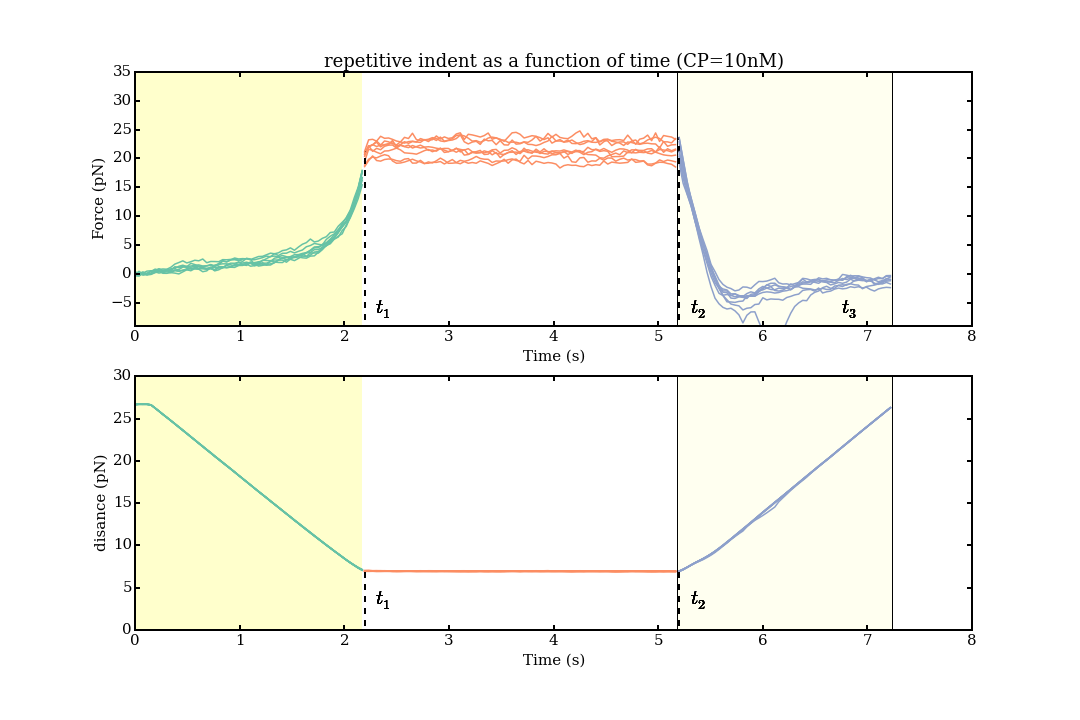
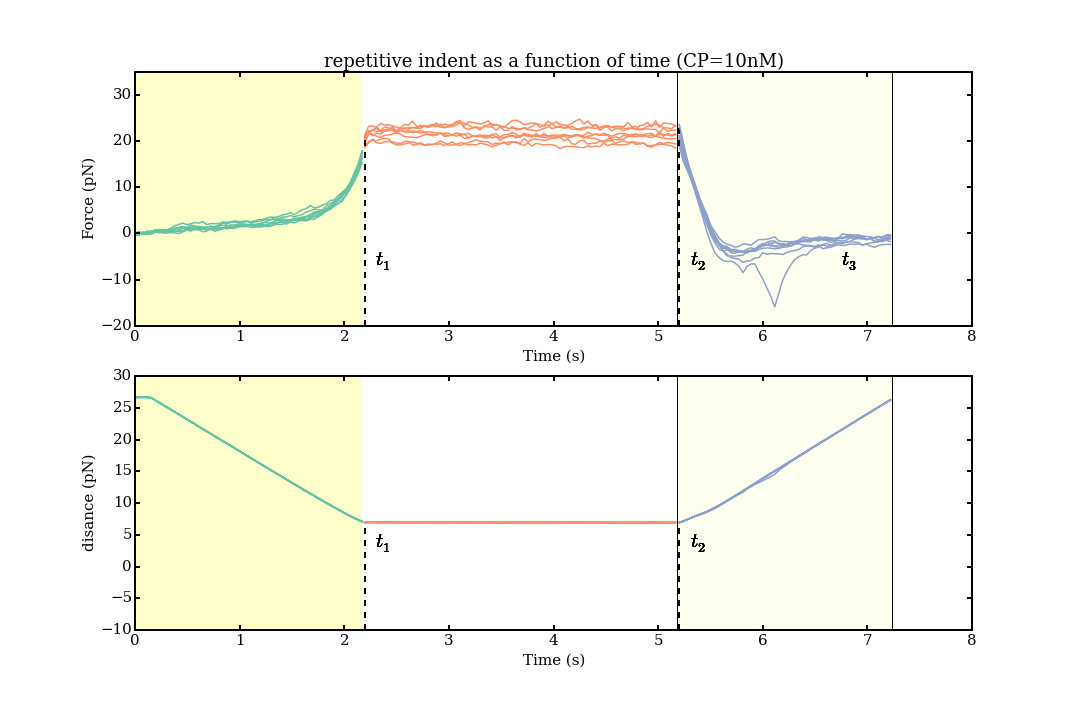
more stuff

diff --git a/parts/part3.rst b/parts/part3.rst
@@ -1,4 +1,5 @@
-.. Actin Cloud
+.. Actin Cloud:
+
 Actin Cloud
 ###########
 .. 1
@@ -159,14 +160,14 @@ force recording is made on the static bead, that is to say in our case on the
 actin bead.
 
 
-The indentation is a three step process :ref:`fig_indent`.
+The indentation is a three step process :num:`Fig #figindent-time`.
 
 Approach Phase
 ==============
 .. 3
-
+ 
 The approach of the probe-trap at constant speed (10 µm/s), as seen in
-:num:`Fig #figindent` for :math:`t < t_1`. During the approach the actin bead
+:num:`Fig #figindent-time` for :math:`t < t_1`. During the approach the actin bead
 will repel the probe bead due the actin network growing on it. The force felt
 by the actin bead will progressively increase as the probe bead approach
 eventually reaching the maximum as the probe-trap reach its closest position
@@ -192,13 +193,21 @@ While the actin network relaxes, the forces between the two beads will slowly
 decrease thus leading to the bead getting closer to their trap center and
 closer to each other. The decrease in distance during the relaxation phase is
 small compared to the distance between beads. The decrease of force as well as
-the minimal change in distance between the two bead can be seen on :num:`Fig
-#figindent` in the middle part.
+the minimal change in distance between the two bead can be seen on :num:`Fig #figindent-time`
+in the middle part.
 
-.. _figindent:
+.. _figindent-time:
 
 .. figure:: /figs/force_time.png
-    :width: 100%
+    :width: 80%
+    
+    Upper graph : Force as a function of time on the actin-bead.  Lower graph :
+    distance between beads (distance between traps + displacement of bead from
+    the trap center) as a function of time. First part of each graph (green
+    curve, yellow back) represent the approach phase. Middle part (orange on
+    white) is the relaxation phase, and right part (blue on pale yellow) is the
+    retraction.  Shown data is a subsample of around 1 every 1000 points of
+    acquired data.
 
 
 Retraction part
@@ -224,8 +233,7 @@ is small compared to the distance between bead center and thickness of the
 actin gel, thus the distance between beads center could be approximated as the
 distance between traps without change of the overall further results.  The
 force-distance curve curve representing the force exerted by the probe bead on
-the actin bead as a function of the distance can be computed :num:`Fig
-#force-distance`. 
+the actin bead as a function of the distance can be computed :num:`Fig #force-distance`. 
 
 
 .. _force-distance:
@@ -233,16 +241,67 @@ the actin bead as a function of the distance can be computed :num:`Fig
 .. figure:: /figs/force-distance.png
     :width: 100%
 
+    Force exerted on the actin bead as a function of the distance between the
+    two beads center. Color and data are the same as in :num:`Fig
+    #figindent-time`. The probe bead start from the far right, and get closer
+    while the force get higher (green upper part of the curve), reach a
+    maximum, and enter the relaxation phase (orange part) where the force
+    between the probe and actin bead decrease, while the distance slightly
+    decrease. During the retraction part (Blue) the force decrease, reaches
+    negative value while the bead return to its initial position. Shown data is
+    a subsample of around 1 every 1000 points of acquired data.
+
+
+Repetitive indent
+=================
+.. 3
+
+To check for reproducibility and non-plastic deformation of the network after
+indentation, the indentation cycle can be reputed several time at a few seconds
+intervals. As the network is constantly growing during the measurement, this
+also allow to check for the change of network properties due to actin
+polymerisation.
+
+
+.. _reproc-time:
+
 .. figure:: /figs/reproc-time.png
     :width: 100%
 
+    Force exerted on actin bead as a function of time for ten repetitive
+    indent at a few seconds of interval. In one of the cycle a sticking event
+    can be seen in the retraction phase 6 seconds after the beginning of the
+    cycle.
 
 
+.. _reproc:
 
 .. figure:: /figs/reproc.png
     :width: 80%
 
-    Figure showing the reproducibility of indentation process on a bead with 25nM Arp2/3 and 10nM CP
+    Figure showing the reproducibility of indentation process on a bead with
+    25nM Arp2/3 and 10nM CP Subset of data from :num:`Fig #reproc-time` shown
+    with different color to represent evolution of indentation curve with time.
+
+Effect of approach speed
+========================
+.. 3
+
+:cite:`Gardel2003` suggest that for frequency higher than 0.1 Hz, the effect of
+force due to the viscous part of actin network can be in the same order of the
+force dur to the elastic component.  It is though important to check the effect
+of the approach speed on the force measurement. We check in :num:`Fig
+#many-speed` how the indentation speed affect the measurement by varying the
+approach speed from 10 to 30 µm/s onthe same actin bead.
+
+
+.. _many-speed:
+
+.. figure:: /figs/many_speed.png
+    :width: 80%
+
+    Aproach phase of repetitive indent at multiple speed on the same actin-bead
+
 
 Results
 *******
@@ -254,11 +313,13 @@ Discussion
 
 
 
-.. Doublets
+.. Doublets:
+
 Doublets
 ********
 
-.. Oocytes
+.. Oocytes:
+
 Oocytes
 *******
 

diff --git a/parts/cells.rst b/parts/cells.rst
@@ -174,6 +174,7 @@ oocyte where the nucleus can be seen positioned at the center of the cell.
 
 
 .. _intro-cyto:
+
 The Cell Cytoskeleton
 =====================
 .. 3
